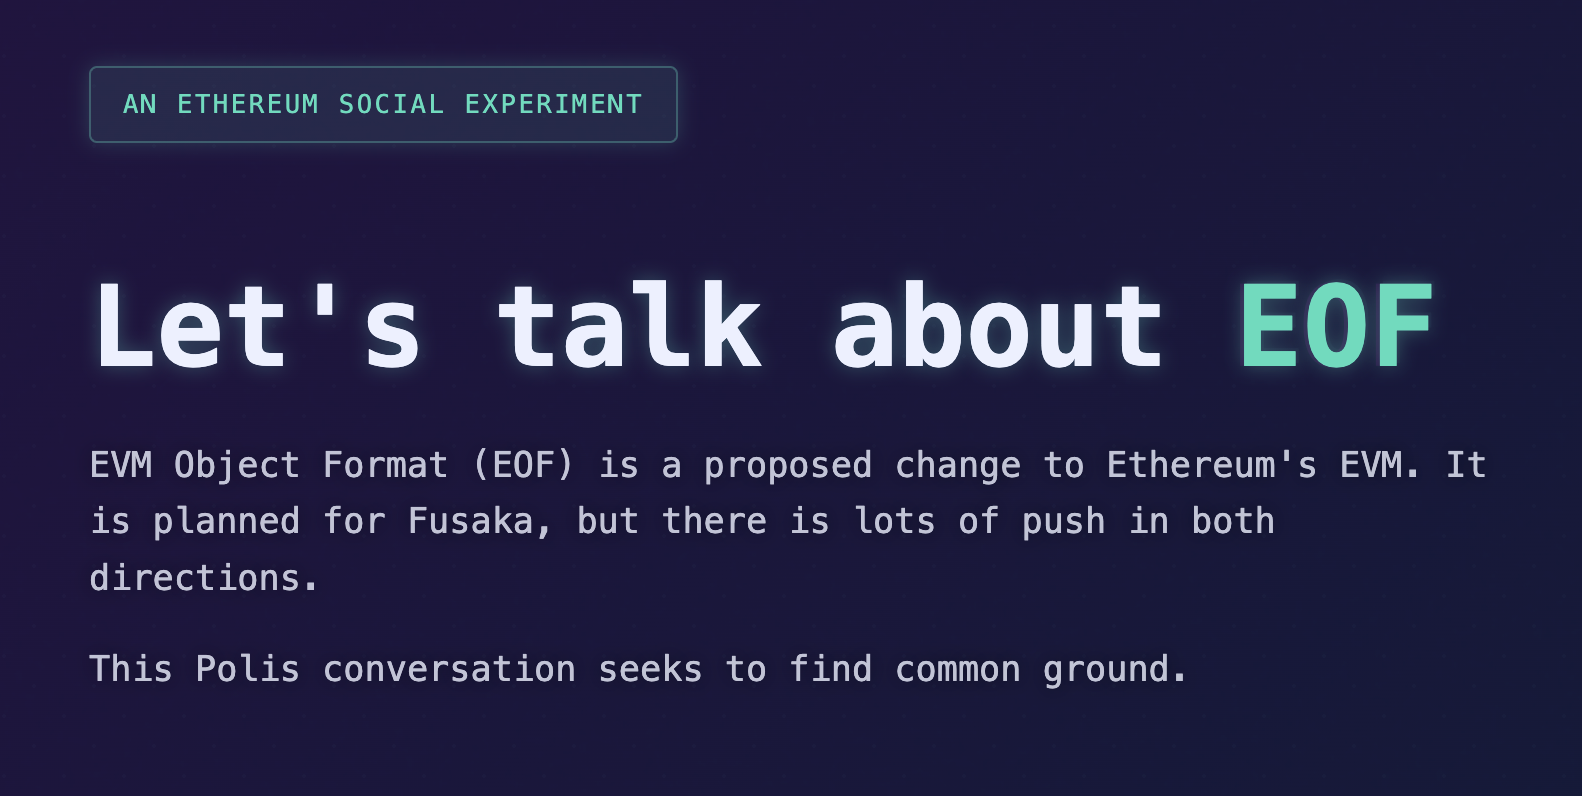
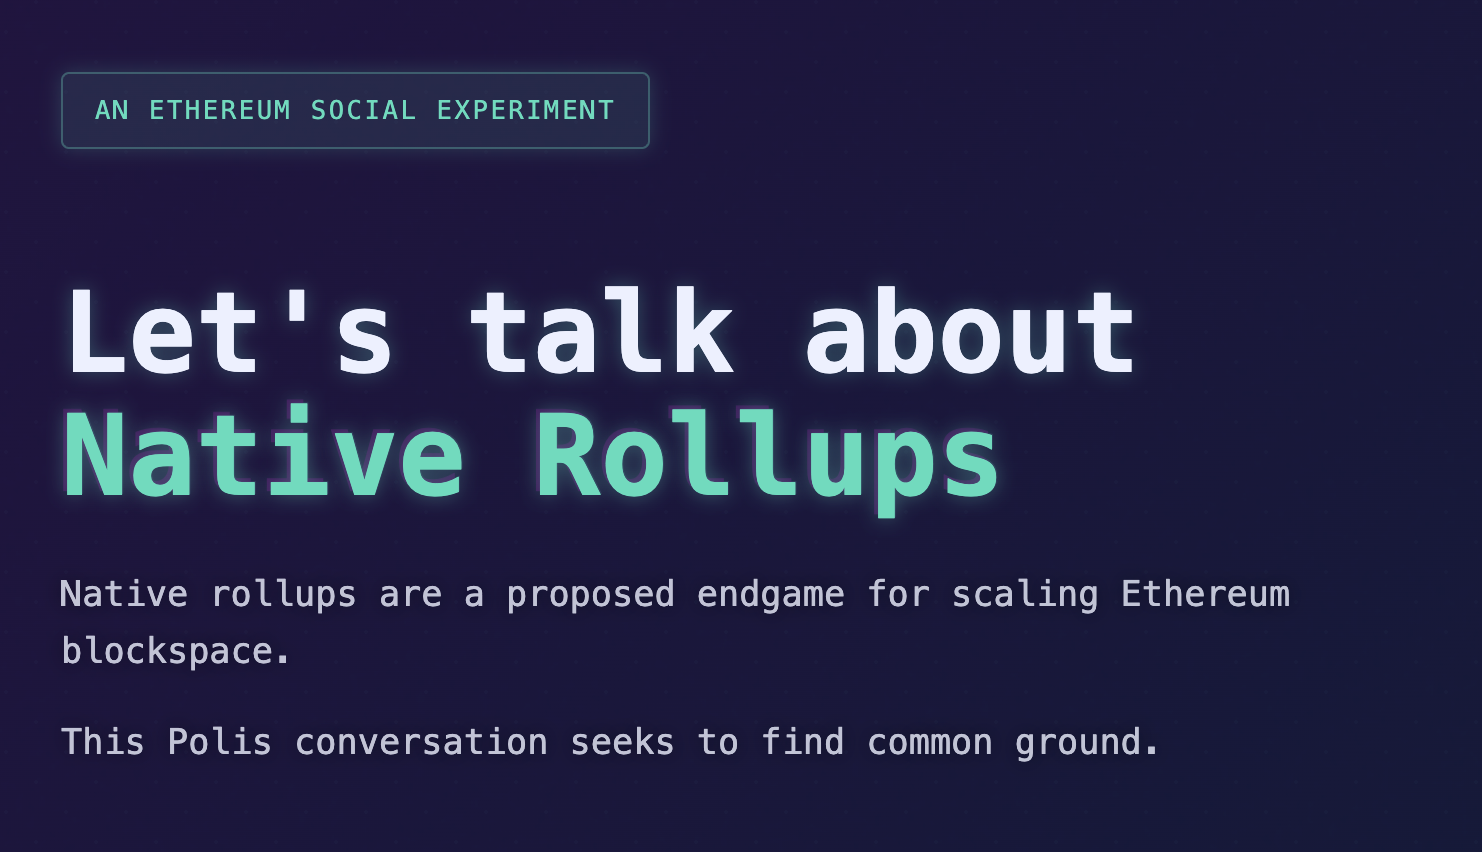
Native rollups

diff --git a/src/config.ts b/src/config.ts
@@ -49,16 +49,16 @@ export interface ConversationConfig {
  */
 export const config: ConversationConfig = createConfig({
   topic: "Native Rollups",
-  description: "Native rollups are a proposed approach for EVM-equivalent rollups to inherit Ethereum's security model while eliminating the need for security councils.",
+  description: "Native rollups are a proposed endgame for scaling Ethereum blockspace.",
   whatIs: "Native rollups use an EXECUTE precompile that exposes the L1 EVM execution engine to Layer 2 solutions. This allows rollups to verify EVM state transitions for batches of transactions with the same security guarantees as Ethereum's L1. Think of them as programmable execution shards that wrap the precompile within a derivation function to handle system logic like sequencing, bridging, and governance.",
   why: "The Ethereum community is discussing whether native rollups represent the best path forward for L2 scaling. While they offer improved security by eliminating trusted intermediaries, several practical challenges remain. Some L2 designs require custom transaction types, different gas accounting, and precompiles not supported by Ethereum L1. This conversation seeks to find common ground on how native rollup technology should evolve.",
-  polisConversationId: "7cr3hndgtm",
+  polisConversationId: "2scakk4srj",
   learnMoreLink: "https://ethresear.ch/t/native-rollups-superpowers-from-l1-execution/21517",
   learnMoreText: "detailed technical proposal",
   imageCreditLink: "https://ethresear.ch/t/native-rollups-superpowers-from-l1-execution/21517",
   imageCreditText: "Ethereum Research",
   educationDiagramName: "education-diagram.svg",
-  githubRepoUrl: "https://github.com/dionysuzx/eof-polis",
+  githubRepoUrl: "https://github.com/dionysuzx/native-rollups-polis",
   contributors: [
     { displayName: "chaskin.eth", handle: "chaskin.eth" },
     { displayName: "dionysuz.eth", handle: "dionysuz.eth" },
